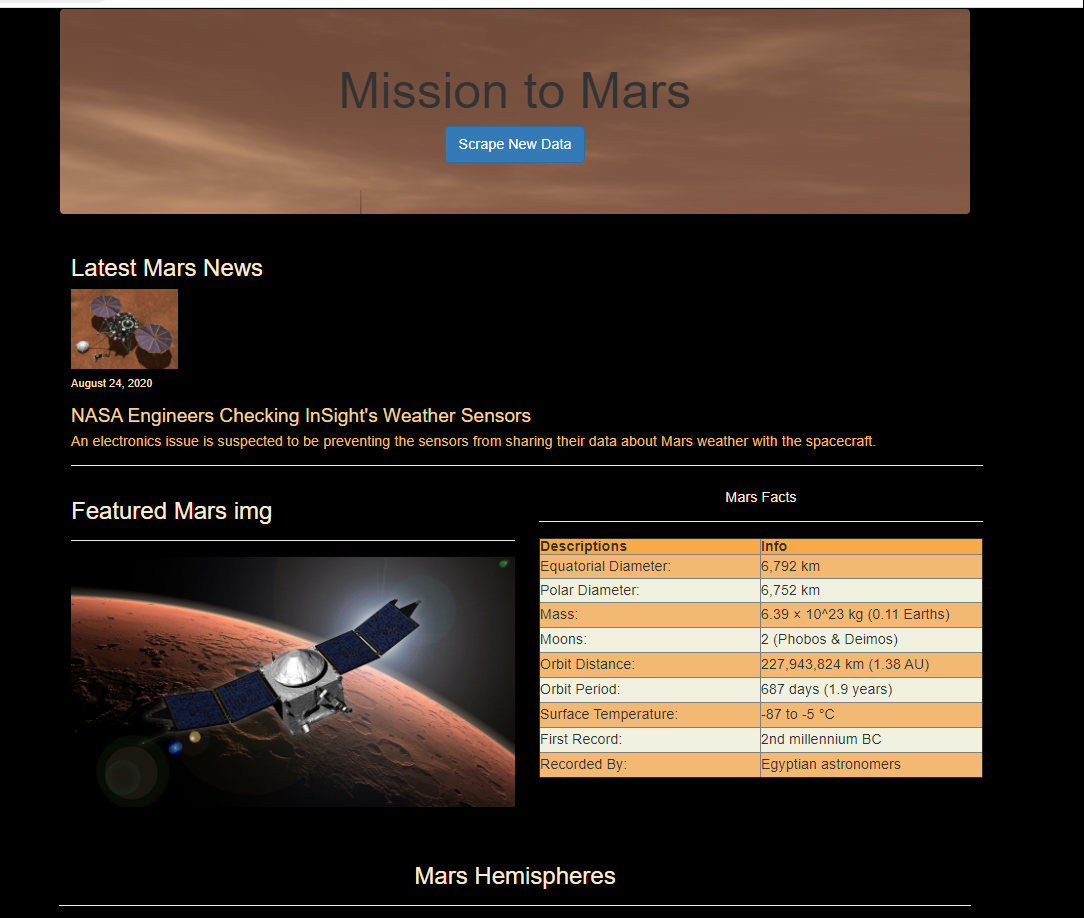
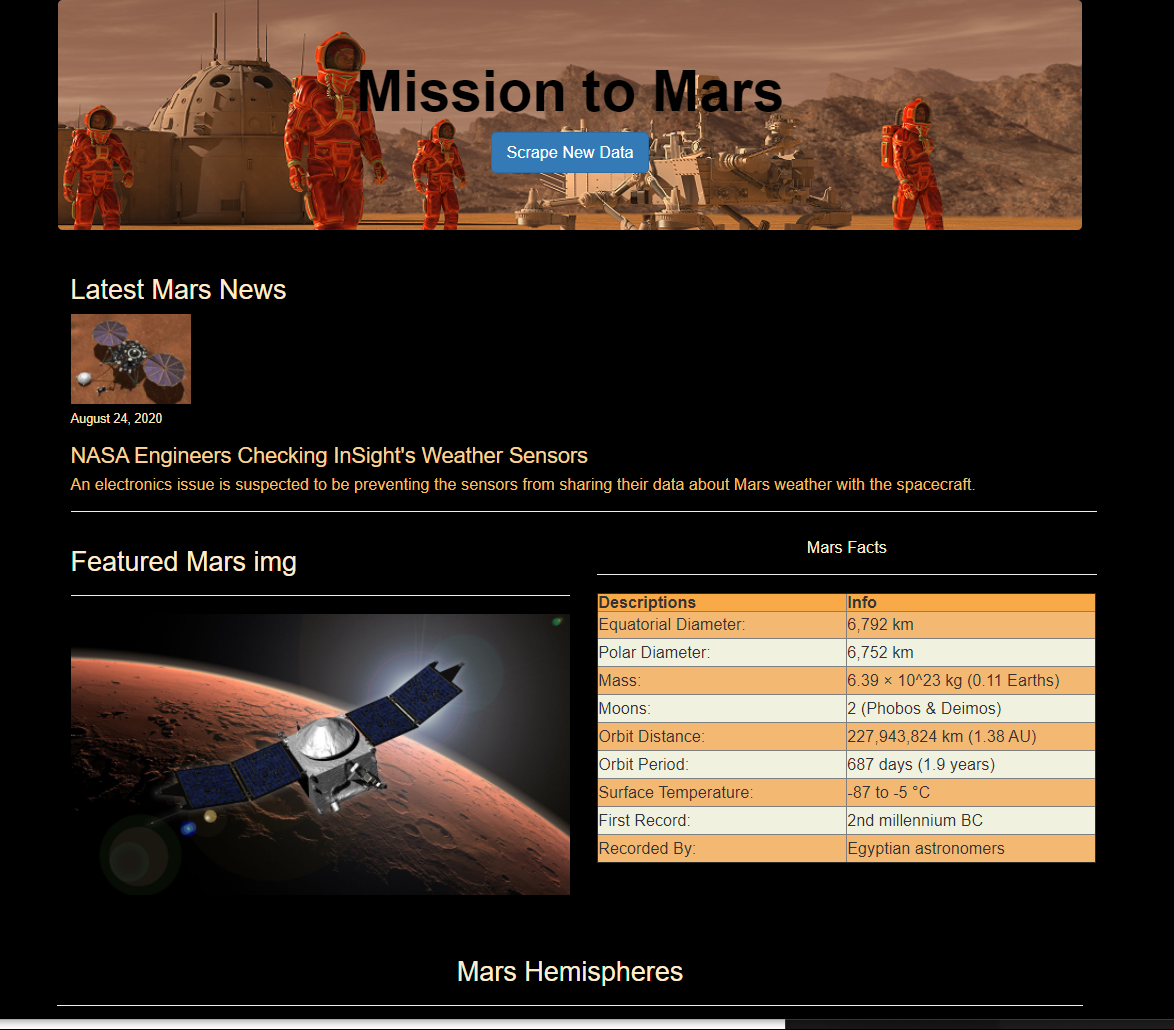
Fixing the header

diff --git a/Missions_to_Mars/templates/index.html b/Missions_to_Mars/templates/index.html
@@ -27,7 +27,7 @@
       width: 100%;
       height:300px;
     }
-    /* hover style for Images */
+    /*Zooming style for Images by hover*/
     .img:hover{
       -webkit-transition: all .5s ease-in;
       -moz-transition: all .5s ease-in;
@@ -53,14 +53,14 @@
 <body style="background-color: black;">
   <div class="container ">
     <div class="jumbotron text-center" style="background-image: url('https://raw.githubusercontent.com/nima-karimii/web-scraping-challenge/master/Missions_to_Mars/mission_to_mars.png');background-size: cover; border: 1px solid black">
-      <h1>Mission to Mars </h1>
+      <h1 style="color: black;"><strong>Mission to Mars </strong></h1>
       <p><a class="btn btn-primary btn-lg" href="../scrape" role="button">Scrape New Data</a></p>
     </div>
 
     <!-- Latest news Past -->
     <div class="container" style="background-color:black">
       <strong><h2 style="color: blanchedalmond;">Latest Mars News</h2></strong>
-      <img height="100px" src="{{data.news_img}}" class="float-right img">
+      <img height="100px" src="{{data.news_img}}" class="float-right ">
       <h5 style="color: rgb(252, 224, 182);">{{data.news_date}}</h2>
       <strong><h3 style="color: rgb(248, 211, 155);">{{data.news_title}}</h3></strong>
       <h4 style="color: rgb(250, 189, 96);">{{data.news_p}}</h3>
